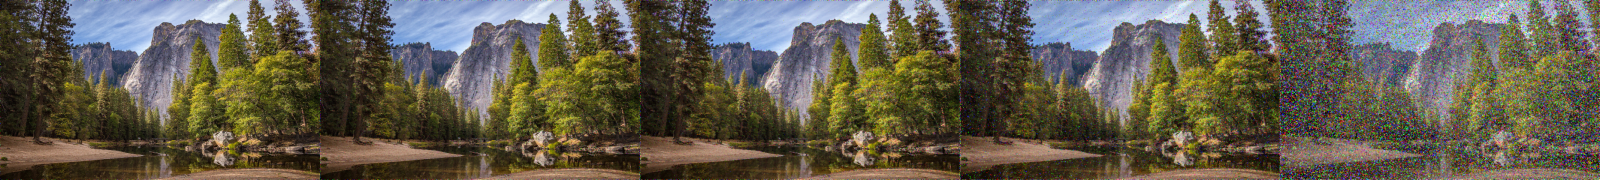
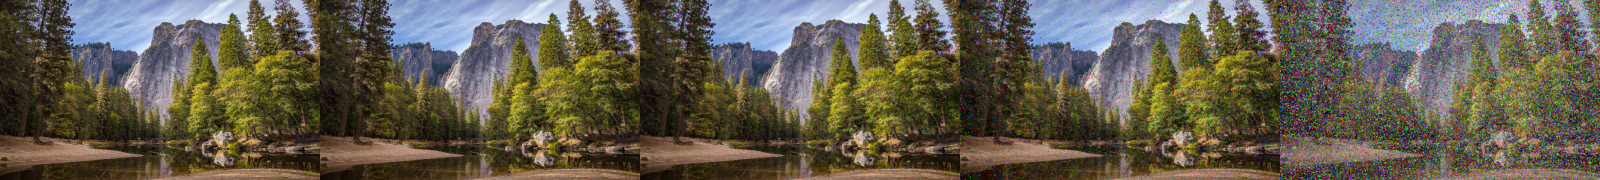
Rewrite README with full methodology, results and reproduction steps
Documents the dataset and noise model, all methods, the v5 training
protocol, metric definitions, statistical testing, final results, step-by-
step reproduction, version history of the fixed bugs and known
limitations. Example strips regenerated from the current outputs.

diff --git a/README.md b/README.md
@@ -1,62 +1,262 @@
-# Salt & Pepper Denoising — Karşılaştırmalı Çalışma
+# Tuz-Biber Gürültü Giderme — Klasik ve Derin Öğrenme Yöntemlerinin Karşılaştırması
 
-Tuz-biber gürültü giderme algoritmalarının **Tiny ImageNet-200** (1000 görsel, 64×64) ve **480p** (1000 görsel, 854×480) görüntü setleri üzerinde kapsamlı karşılaştırması.
+Bu depo, renkli görüntülerde **tuz-biber (salt & pepper, S&P) gürültüsünü** gideren 6 klasik / karar-tabanlı
+yöntemi ve 3 derin öğrenme (DL) modelini iki görüntü setinde, beş gürültü yoğunluğunda karşılaştırır.
+Karşılaştırma hem piksel düzeyinde (PSNR, SSIM, MAE, RMSE, piksel-F1) hem de bir aşağı akış görevi olan
+sınıflandırma üzerinden (ResNet-18 karar uyumu) yapılır; tüm farklar görsel bazında eşleştirilmiş
+istatistik testleriyle sınanır.
 
-## Yöntemler
+## İçindekiler
 
-| Yöntem | Tür | Dosya |
+1. [Deney tasarımı](#1-deney-tasarımı)
+2. [Yöntemler](#2-yöntemler)
+3. [DL eğitim protokolü](#3-dl-eğitim-protokolü)
+4. [Değerlendirme ve istatistik](#4-değerlendirme-ve-istatistik)
+5. [Sonuçlar](#5-sonuçlar)
+6. [Yeniden üretme (adım adım)](#6-yeniden-üretme-adım-adım)
+7. [Klasör yapısı](#7-klasör-yapısı)
+8. [Sürüm geçmişi ve düzeltilen hatalar](#8-sürüm-geçmişi-ve-düzeltilen-hatalar)
+9. [Bilinen sınırlamalar](#9-bilinen-sınırlamalar)
+10. [Örnek görseller](#10-örnek-görseller)
+
+---
+
+## 1. Deney tasarımı
+
+| | Tiny ImageNet | 480p |
 |---|---|---|
-| SMF | Standart Medyan Filtresi | `run_SMF_levels.m` |
-| AMF | Uyarlamalı Medyan Filtresi | `run_AMF_levels.m` |
-| MDBUTMF | Modified Decision Based Unsymmetric Trimmed Median Filter | `run_MDBUTMF_levels.m` |
-| EMPR | Efficient Multi-Pixel Reconstruction | `run_EMPR_levels.m` |
-| HDMR | High-Density Median Reconstruction | `run_HDMR_levels.m` |
-| DAMF | Decision-based Adaptive Median Filter | `run_DAMF_levels.m` |
-| DnCNN | Derin Evrişimsel Ağ (L1, doğrudan) | `ai_based_models/` |
-| DnCNN-SP | Maske koşullu DnCNN (4-kanal girdi) | `ai_based_models/` |
-| SeConvUNet | Seçici Evrişimli U-Net | `ai_based_models/` |
+| Kaynak | Tiny ImageNet-200 **test** bölümü | DIV2K train + valid (yüksek çözünürlük) |
+| Görsel sayısı | 1000 | 900 |
+| Çözünürlük | 64×64 | 854×480 (`resize_to_480p.py`, Lanczos) |
+| Sınıf etiketi | yok (test etiketleri yayınlanmıyor) | yok |
 
-## Değerlendirme Metrikleri
+**Gürültü modeli.** Gürültülü görseller MATLAB `imnoise(I, 'salt & pepper', d)` ile üretilir,
+d ∈ {0.1, 0.3, 0.5, 0.7, 0.9}. `imnoise` RGB görselde **her kanalı bağımsız** bozar: her kanal değeri
+d/2 olasılıkla 0 (biber), d/2 olasılıkla 255 (tuz) olur. Bu yüzden bir pikselin yalnızca bir kanalı bozuk
+olabilir (ör. %50 seviyede piksellerin %86'sında en az bir kanal bozuk, yalnızca %4'ünde üç kanal birden).
 
-PSNR · SSIM · MAE · RMSE · Pixel-F1 / Precision / Recall · ResNet-18 Top-1 Accuracy
+**Ortak gürültü tespit kuralı.** Karar-tabanlı tüm yöntemler (MDBUTMF, DAMF, EMPR, HDMR) ve maskeli DL
+modelleri (DnCNN-SP, SeConvUNet) bozuk değeri aynı kuralla tespit eder: **kanal değeri 0 veya 255 ise şüpheli**.
+Böylece klasik ve DL yöntemleri aynı bilgiyle yarışır.
 
-## Çalıştırma Sırası
+## 2. Yöntemler
 
-### Tiny ImageNet
+| Yöntem | Tür | Kısa açıklama | Dosya |
+|---|---|---|---|
+| SMF | Klasik | 3×3 standart medyan filtresi (kanal başına, simetrik kenar dolgusu) | `run_SMF_levels.m` |
+| AMF | Klasik | Uyarlamalı medyan filtresi, en büyük pencere 7×7 | `run_AMF_levels.m` |
+| MDBUTMF | Karar-tabanlı | Modified Decision Based Unsymmetric Trimmed Median Filter: 3×3 pencerede 0/255 olmayan değerlerin medyanı | `run_MDBUTMF_levels.m` |
+| DAMF | Karar-tabanlı | Bozuk değeri, büyüyen pencerede (3×3 → 9×9) bozuk olmayan komşuların medyanıyla değiştirir | `run_DAMF_levels.m` |
+| EMPR | Karar-tabanlı | Enhanced Multivariance Products Representation tabanlı yeniden yapılandırma (3×3 → 7×7 pencere) | `run_EMPR_levels.m` + `EMPR0.m`, `EMPR1.m`, `mysupports.m`, `standartiki.m` |
+| HDMR | Karar-tabanlı | High Dimensional Model Representation tabanlı yeniden yapılandırma (3×3 → 7×7 pencere) | `run_HDMR_levels.m` + `hdmr.m`, `standartiki.m` |
+| DnCNN | DL | 17 katmanlı DnCNN, rezidüel öğrenme (çıktı = x − f(x)), maskesiz 3 kanal girdi | `ai_based_models/src/models/dncnn.py` |
+| DnCNN-SP | DL | DnCNN gövdesi; girdi RGB + kanal bazlı maske (6 kanal), doğrudan tahmin; çıktı = maske·tahmin + (1−maske)·girdi, yani yalnızca şüpheli kanallar değişir | `ai_based_models/src/models/dncnn_sp.py` |
+| SeConvUNet | DL | 3 seviyeli U-Net (taban 48 kanal); tüm evrişimler maskeyi katmandan katmana aktaran *partial convolution*; çıktı DnCNN-SP gibi maskeyle sınırlanır | `ai_based_models/src/models/seconv_unet.py` |
+
+Klasik yöntemler MATLAB'da kanal başına uygulanır. EMPR ve HDMR uygulamaları danışmandan alınmıştır.
+
+## 3. DL eğitim protokolü
+
+Üç model **aynı tarifle** eğitilir (makaledeki sürüm: **v5**, `ai_based_models/configs/*_v5.yaml`):
+
+| Ayar | Değer |
+|---|---|
+| Eğitim verisi | Tiny ImageNet **train** (100.000 görsel, 64×64; test setinden tamamen ayrı) |
+| Yama | 64×64 (büyütme yok) |
+| Gürültü | Her örnek için d ~ U(0.1, 0.9); `imnoise` ile birebir aynı kanal bazlı model (`add_sp_noise`) |
+| Maske | Kanal değeri 0 veya 255 → 1 (`sp_mask_channel`), test ile aynı kural |
+| Kayıp | L1; maskeli modellerde şüpheli kanallar 6× ağırlıklı |
+| Optimizasyon | AdamW; lr 2e-4 (DnCNN, DnCNN-SP), 1e-4 (SeConvUNet); kosinüs azaltımı (lr'nin %1'ine kadar) |
+| Süre | 50 epoch, batch 64, seed 0 |
+| Model seçimi | Tiny ImageNet **val** setinin ilk 500 görseli × 5 seviye (sabit seed'li gürültü); ortalama val PSNR'ı en yüksek epoch |
+
+En iyi epoch'lar ve doğrulama PSNR'ı (5 seviye ortalaması):
+
+| Model | En iyi epoch | Val PSNR (dB) | Yakınsama kontrolü: aynı tarif 30 epoch (v4) |
+|---|---|---|---|
+| DnCNN | 48 | 30.27 | 28.80 |
+| DnCNN-SP | 49 | 31.56 | 30.98 |
+| SeConvUNet | 50 | 30.37 | 29.41 |
+
+Makalede v5'in kullanılacağı, test sonuçlarına bakılmadan önce kararlaştırılmıştır (test seti hiçbir seçimde
+kullanılmadı). Epoch bazında eğitim kayıtları: `results/training/`.
+
+## 4. Değerlendirme ve istatistik
+
+Tüm yöntemler **tek betikle, aynı fonksiyonlarla** ölçülür (`evaluate.py`). Metrikler görsel başına
+hesaplanıp ortalanır:
+
+| Metrik | Tanım |
+|---|---|
+| PSNR (dB) | RGB, `10·log10(255²/MSE)`; MSE = 0 ise 100 dB'e sabitlenir |
+| SSIM | RGB, `skimage` `structural_similarity`, `data_range=255` |
+| MAE, RMSE | RGB, 0–255 ölçeğinde |
+| Piksel Precision / Recall / F1 | *Bozuk piksel*: gürültülü görselde en az bir kanalı orijinalden farklı. *Düzeltilmiş*: çıktının tüm kanalları orijinale ±10 içinde. TP = bozuk ∧ düzeltilmiş, FN = bozuk ∧ ¬düzeltilmiş, FP = temiz ∧ ¬düzeltilmiş (yöntem zarar vermiş) |
+| Top-1 karar uyumu (%) | ImageNet ağırlıklı ResNet-18'in temizlenmiş görseldeki tahmininin, temiz orijinaldeki tahminiyle aynı olma oranı. Yalnız Tiny (gerçek-etiket doğruluğu **değildir**) |
+
+**İstatistik** (`stats.py`). Her (veri seti, seviye, metrik) için tüm yöntem çiftleri görsel bazında
+eşleştirilmiş testle karşılaştırılır: sürekli metriklerde Wilcoxon işaretli sıra testi, Top-1 uyumunda kesin
+McNemar testi. 1980 testin hepsine birlikte Holm düzeltmesi uygulanır (α = 0.05). Çıktı:
+`results/stats_pairwise.csv` (ortalama fark, her yöntemin kazandığı görsel oranı, p, Holm-p).
+
+## 5. Sonuçlar
+
+Tüm sayılar `results/` altındaki dosyalardan alınmıştır (v5 DL modelleri, düzeltilmiş MDBUTMF/SMF).
+
+### 5.1 Ortalama sonuçlar (5 gürültü seviyesinin ortalaması)
+
+| Yöntem | Tiny PSNR | Tiny SSIM | Tiny F1 | Tiny Top-1 % | 480p PSNR | 480p SSIM | 480p F1 |
+|---|---|---|---|---|---|---|---|
+| Gürültülü girdi | 8.89 | 0.171 | 0.036 | 0.5 | 8.82 | 0.104 | 0.036 |
+| SMF | 13.58 | 0.351 | 0.280 | 3.2 | 14.93 | 0.359 | 0.423 |
+| AMF | 18.67 | 0.626 | 0.457 | 10.2 | 21.41 | 0.669 | 0.643 |
+| MDBUTMF | 20.82 | 0.672 | 0.499 | 15.1 | 23.66 | 0.682 | 0.671 |
+| EMPR | 22.29 | 0.760 | 0.551 | 15.8 | 25.79 | 0.831 | 0.753 |
+| HDMR | 22.46 | 0.763 | 0.557 | 17.1 | 25.96 | 0.832 | 0.759 |
+| DAMF | 22.25 | 0.758 | 0.563 | 16.4 | 26.13 | 0.829 | 0.768 |
+| DnCNN | 29.61 | 0.886 | 0.840 | 57.3 | 30.11 | 0.892 | 0.864 |
+| **DnCNN-SP** | **31.03** | **0.902** | **0.853** | **59.4** | **32.15** | **0.911** | **0.879** |
+| SeConvUNet | 29.78 | 0.889 | 0.809 | 53.2 | 30.97 | 0.901 | 0.860 |
+
+### 5.2 Seviye bazında PSNR (dB)
+
+| Yöntem | Tiny %10 | %30 | %50 | %70 | %90 | 480p %10 | %30 | %50 | %70 | %90 |
+|---|---|---|---|---|---|---|---|---|---|---|
+| MDBUTMF | 28.27 | 24.15 | 21.24 | 17.73 | 12.69 | 33.01 | 27.91 | 24.52 | 19.76 | 13.09 |
+| EMPR | 27.94 | 24.41 | 22.09 | 19.88 | 17.14 | 32.14 | 27.97 | 25.47 | 23.13 | 20.23 |
+| HDMR | 28.38 | 24.66 | 22.20 | 19.92 | 17.16 | 32.60 | 28.23 | 25.57 | 23.15 | 20.23 |
+| DAMF | 28.30 | 24.39 | 21.90 | 19.76 | 16.90 | 33.30 | 28.42 | 25.61 | 23.27 | 20.06 |
+| DnCNN | 39.10 | 34.93 | 29.34 | 24.86 | 19.82 | 32.96 | 35.32 | 31.40 | 27.82 | 23.03 |
+| DnCNN-SP | 44.07 | 35.41 | 29.87 | 25.36 | 20.44 | 41.38 | 35.82 | 31.79 | 28.16 | 23.61 |
+| SeConvUNet | 42.00 | 33.69 | 28.60 | 24.51 | 20.11 | 39.69 | 34.15 | 30.44 | 27.22 | 23.34 |
+
+Seviye bazında Top-1 uyumu (Tiny, %): DnCNN-SP 93.0 / 81.5 / 66.7 / 46.4 / 9.4;
+HDMR 46.2 / 24.9 / 10.3 / 3.7 / 0.6; DAMF 46.4 / 22.5 / 9.3 / 3.4 / 0.2 (%10 → %90).
+Tüm tablolar: `results/summary.csv`; grafik: `results/psnr_ssim.png`.
+
+### 5.3 Bulgular
+
+1. **DL modelleri tüm seviyelerde önde.** HDMR, EMPR ve DAMF'ye göre ortalama PSNR farkı Tiny'de 7.1–8.8 dB,
+   480p'de 4.0–6.4 dB. DL modelleri yalnızca Tiny ImageNet ile eğitildiği hâlde hiç görmedikleri 480p (DIV2K)
+   setinde de önde.
+2. **Sınıflandırmada fark daha büyük.** DL ile temizlenen görsellerde ResNet-18 temiz görseldeki kararını
+   3.1–3.8 kat daha sık koruyor.
+3. **Klasik/karar-tabanlı yöntemlerin anlamlı üstünlüğü yalnızca 4 hücrede**: 480p %10'da *maskesiz* DnCNN'e karşı
+   SSIM (MDBUTMF, EMPR, HDMR, DAMF; Holm-p < 10⁻¹²). Nedeni, bu yöntemlerin sağlam pikselleri hiç değiştirmemesi;
+   maskesiz DnCNN her pikseli değiştiriyor. Maskeli modeller (DnCNN-SP, SeConvUNet) hiçbir hücrede geçilmiyor.
+4. **Görsel bazında**, en iyi klasik yöntem DnCNN-SP'yi PSNR'da görsellerin yalnızca %0.2–1.1'inde geçiyor; bunlar
+   çok düz, az dokulu görsellerdir (480p'de ortalama gradyan ~12'ye karşı diğer görsellerde ~25).
+5. **Klasik yöntemler kendi aralarında**: HDMR, Tiny'de PSNR ve SSIM'de çoğu seviyede ikinciden anlamlı biçimde
+   iyi; DAMF 480p'de %10–70 PSNR'da ve iki sette MAE/F1'de önde. EMPR, HDMR ve DAMF birbirine çok yakın
+   (ortalama PSNR farkı < 0.4 dB).
+
+## 6. Yeniden üretme (adım adım)
+
+### Ortam
+
+- **MATLAB** (Image Processing Toolbox; AMF/DAMF/EMPR/HDMR için Parallel Computing Toolbox — `parfor`)
+- **Python 3.12**, `pip install -r ai_based_models/requirements.txt`
+  (kullanılan sürümler: torch 2.10.0+cu128, torchvision 0.25.0, numpy 2.3.5, scipy 1.17.1, scikit-image 0.26.0,
+  pandas 3.0.2, opencv 4.13.0, pillow 12.0.0, matplotlib 3.10.9)
+- Veri (git'te yok): `tiny-imagenet-200/` (train/val/test), `480p-Test/Originals/DIV2K_{train,valid}_HR/`,
+  `Tiny-Imagenet/Tiny_Orijinal/` (Tiny ImageNet test görselleri, `test_N.JPEG`)
+
+### Adımlar
 
 ```
-1. generate_all_noise_levels.m   → Tiny-Imagenet/Tiny_Noisy_{10,30,50,70,90}/
-2. run_SMF_levels.m              → Tiny-Imagenet/Tiny_Cleaned_SMF_{10..90}/
-   run_AMF_levels.m
-   run_MDBUTMF_levels.m
-   run_EMPR_levels.m
-   run_HDMR_levels.m
-   run_DAMF_levels.m
-3. python ai_based_models/src/infer.py --config configs/dncnn_sp_v2.yaml --dataset tiny
-   (DnCNN, DnCNN-SP, SeConvUNet için ayrı ayrı)
-4. evaluate_all_metrics.ipynb    → sonuçlar + grafikler
+Veri hazırlama
+1. generate_all_noise_levels.m          → Tiny-Imagenet/Tiny_Noisy_{10,30,50,70,90}/
+2. python resize_to_480p.py             → 480p-Test/Originals_resized/   (900 görsel)
+3. generate_480p_noise.m                → 480p-Test/Noisy_{10,30,50,70,90}/
+
+Klasik yöntemler (MATLAB) — her run_*_levels.m dosyasında 7–10. satırlardaki Tiny / 480p klasör
+satırlarından biri aktif edilir; iki veri seti için ayrı ayrı çalıştırılır
+4. run_SMF_levels.m · run_AMF_levels.m · run_MDBUTMF_levels.m
+   run_EMPR_levels.m · run_HDMR_levels.m · run_DAMF_levels.m
+   → Tiny-Imagenet/Tiny_Cleaned_{YÖNTEM}_{10..90}/  ve  480p-Test/Cleaned_{YÖNTEM}_{10..90}/
+
+DL yöntemleri (Python)
+5. bash ai_based_models/train_all.sh    → ai_based_models/weights/*_v5.pth   (~3.5 saat, RTX 5080)
+6. bash ai_based_models/infer_all.sh    → *_Cleaned_{DnCNN,DnCNN_SP,SeConvUNet}_{10..90}/ (iki set)
+
+Değerlendirme
+7. python evaluate.py                   → results/summary.csv, average_{tiny,480p}.csv,
+                                          delta_480p_minus_tiny.csv, psnr_ssim.{png,pdf}, per_image.csv
+8. python stats.py                      → results/stats_pairwise.csv
 ```
 
-### 480p
+Notlar:
+- Gürültü betikleri artık `rng(42)` ile sabit seed kullanır. Mevcut gürültülü veri seed'siz üretildiği için
+  betikleri yeniden çalıştırmak **farklı** gürültü üretir; bu durumda 4–8. adımların tamamı tekrarlanmalıdır.
+- `infer.py` yalnızca `noise_model = channelwise_v3` etiketli (yani bu protokolle eğitilmiş) ağırlıkları kabul eder.
+- **WSL + GPU uyarısı:** Bu çalışmada WSL2 içinde 480p görsellerde GPU ile çıkarım sırasında WSL sanal makinesi
+  `dxg` (GPU paravirtualization) bellek ayırma hatalarıyla birkaç kez çöktü. Bu nedenle SeConvUNet'in 480p
+  çıktıları CPU'da üretildi (`CUDA_VISIBLE_DEVICES=""`); CPU ve GPU çıktıları değerlerin %0.2–0.4'ünde yalnızca
+  ±1 gri seviye farklıdır. Uzun GPU işleri öncesinde Windows'u yeniden başlatmak, NVIDIA sürücüsünü ve WSL'yi
+  (`wsl --update`) güncellemek önerilir.
+
+## 7. Klasör yapısı
 
 ```
-1. python resize_to_480p.py          → 480p-Test/Originals_resized/
-2. generate_480p_noise.m             → 480p-Test/Noisy_{10,30,50,70,90}/
-3. run_SMF_levels.m  (480p aktif)    → 480p-Test/Cleaned_SMF_{10..90}/
-   run_AMF_levels.m
-   run_MDBUTMF_levels.m
-   run_EMPR_levels.m
-   run_HDMR_levels.m
-   run_DAMF_levels.m
-4. python ai_based_models/src/infer.py --config configs/dncnn_sp_v2.yaml \
-       --noisy_root 480p-Test --out_root 480p-Test --dataset 480p
-5. evaluate_all_metrics.ipynb    → her iki set + karşılaştırma
+noise-test/
+├── README.md
+├── evaluate.py                 ← tüm yöntemlerin değerlendirmesi
+├── stats.py                    ← eşleştirilmiş istatistik testleri
+├── make_readme_examples.py     ← README örnek şeritleri (docs/examples/v2/)
+├── resize_to_480p.py
+├── generate_all_noise_levels.m, generate_480p_noise.m
+├── run_{SMF,AMF,MDBUTMF,DAMF,EMPR,HDMR}_levels.m
+├── EMPR0.m, EMPR1.m, mysupports.m, standartiki.m, hdmr.m   ← EMPR/HDMR yardımcıları
+├── ai_based_models/
+│   ├── src/
+│   │   ├── train.py, infer.py
+│   │   ├── models/   dncnn.py, dncnn_sp.py, seconv_unet.py, external_wrappers.py
+│   │   └── utils/    spmask.py (gürültü + maske), config.py, io.py
+│   ├── configs/      dncnn_v5.yaml, dncnn_sp_v5.yaml, seconv_sp_v5.yaml
+│   ├── weights/      *_v5.pth (git'te yok)
+│   ├── logs/         ham eğitim/çıkarım kayıtları (git'te yok)
+│   ├── train_all.sh, infer_all.sh
+│   └── requirements.txt
+├── results/                    ← evaluate.py / stats.py çıktıları, training/ (epoch kayıtları)
+├── docs/examples/v2/           ← README örnek görselleri
+├── legacy/                     ← artık kullanılmayan betik ve sonuçlar (bkz. legacy/README.md)
+├── Tiny-Imagenet/, 480p-Test/, tiny-imagenet-200/    ← veri (git'te yok)
 ```
 
-## 480p Örnek Görseller
+## 8. Sürüm geçmişi ve düzeltilen hatalar
 
-> Aşağıdaki görseller `make_readme_examples.py` çalıştırıldıktan sonra `docs/examples/v2/` klasöründe oluşur.
-> Her satır soldan sağa: %10 · %30 · %50 · %70 · %90 gürültü seviyesi.
+Ekim 2026'da tüm hat denetlendi. Önceki sonuçlarda DL modelleri gürültülü girdiden neredeyse farksızdı
+(Tiny ortalama PSNR ~9.3 dB'e karşı 8.9 dB); klasik yöntemlerin daha iyi görünmesinin sebebi aşağıdaki hatalardı.
+
+| Sürüm | Durum | Açıklama |
+|---|---|---|
+| v1/v2 | **Geçersiz** | Eğitimde gürültü pikselin üç kanalını birlikte bozuyordu (test: kanal bazlı); maske yalnızca üç kanalı birden bozuk pikselleri yakalıyordu (bozuk değerlerin %1–15'i); eğitimde %90 hedeflenen yoğunluk tekrarlı örnekleme yüzünden ~%59'da kalıyordu; 64×64 görseller 128×128'e büyütülerek eğitiliyordu; SeConvUNet maskeyi katmanlar arasında aktarmıyordu ve değerlendirmede "her yer bozuk" maskesi verildiği için sabit renk (44, 36, 0) üretiyordu; checkpoint'ler `strict=False` ile sessizce yükleniyordu; tahminler yuvarlanmak yerine aşağı kesiliyordu. |
+| v3 | Ara sürüm | Yukarıdaki hatalar düzeltildi; sabit öğrenme oranı, 30 epoch. Doğrulama PSNR'ı epoch'lar arasında dalgalanıyordu. |
+| v4 | Yakınsama kontrolü | v3 + kosinüs öğrenme oranı, 30 epoch. |
+| **v5** | **Makale** | Kosinüs öğrenme oranı, 50 epoch, üç modelde aynı tarif. |
+
+Klasik tarafta düzeltilenler: MDBUTMF kenar piksellerini hiç işlemiyordu (Tiny ortalaması 17.67 → 20.82 dB);
+SMF kenarlarda sıfır dolgu kullanıyordu. Değerlendirme notebook'u ve `test/full_eval_v2.py` yerini tek bir
+`evaluate.py`'ye bıraktı: eski F1 maskesi kanal bazlı gürültüyü kaçırıyordu ve iki farklı kaynaktan gelen
+metrikler karıştırılıyordu. Eski dosyalar ve sonuçlar `legacy/` altında; açıklamalar `legacy/README.md`'de.
+
+## 9. Bilinen sınırlamalar
+
+- **Top-1 uyumu** gerçek-etiket doğruluğu değildir; ResNet-18 ImageNet (224×224) için eğitilmiştir ve 64×64
+  görseller büyütülerek verilir. Bu metrik, temizlemenin sınıflandırıcının kararını ne ölçüde koruduğunu ölçer.
+- **F1 tanımında** FP "temiz pikseli bozmak" anlamına gelir; bu yüzden hiçbir şey yapmayan gürültülü girdi bile
+  yüksek precision alır (Tiny 0.96, 480p 0.99). Yorumlarken recall ve F1 birlikte değerlendirilmelidir.
+- **Yakınsama:** 30 → 50 epoch geçişinde doğrulama PSNR'ı 0.6–1.5 dB arttı; modeller tam doygunlukta
+  olmayabilir. Daha uzun eğitim DL lehine farkı yalnızca büyütür; bu nedenle "DL daha iyi" sonucu temkinlidir.
+- **DnCNN (maskesiz)**, %10 gürültüde öğrenme oranı neredeyse sıfırken bile epoch'tan epoch'a dalgalanır
+  (BatchNorm istatistikleri); en iyi epoch doğrulama setine göre seçilir.
+- 480p görselleri farklı en-boy oranlarındaki DIV2K görsellerinin 854×480'e zorlanmasıyla elde edilmiştir.
+- Mevcut gürültülü veri seed'siz üretilmiştir (bkz. §6); sonuçlar bu belirli gürültü gerçekleşmesine aittir.
+
+## 10. Örnek görseller
+
+480p setinden bir görsel (`0007.png`). Her satır soldan sağa: %10 · %30 · %50 · %70 · %90 gürültü seviyesi.
+Şeritler `make_readme_examples.py` ile güncel çıktılardan üretilir.
 
 ### Orijinal
 ![Original](docs/examples/v2/Original.png)
@@ -90,20 +290,3 @@ PSNR · SSIM · MAE · RMSE · Pixel-F1 / Precision / Recall · ResNet-18 Top-1 
 
 ### SeConvUNet
 ![SeConvUNet](docs/examples/v2/SeConvUNet.png)
-
-## Klasör Yapısı
-
-```
-noise-test/
-├── Tiny-Imagenet/          ← Tiny ImageNet gürültülü + temizlenmiş görüntüler
-├── 480p-Test/              ← 480p gürültülü + temizlenmiş görüntüler
-├── tiny-imagenet-200/      ← Eğitim verisi (DL modeller)
-├── ai_based_models/        ← Python kaynak kodu
-│   ├── src/
-│   └── configs/
-├── evaluate_all_metrics.ipynb
-├── generate_all_noise_levels.m
-├── generate_480p_noise.m
-├── resize_to_480p.py
-└── run_*_levels.m
-```
